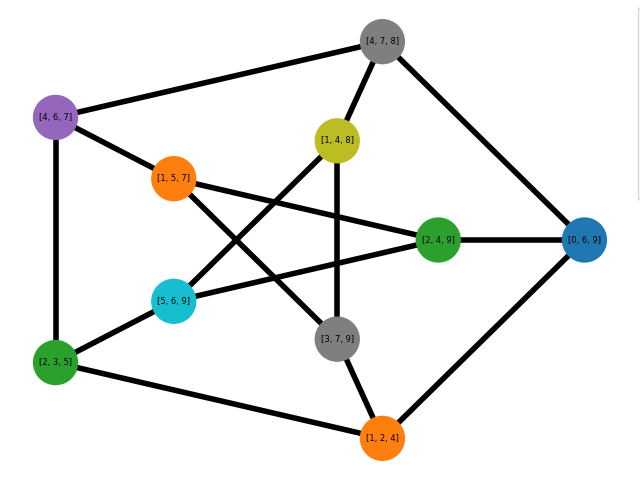
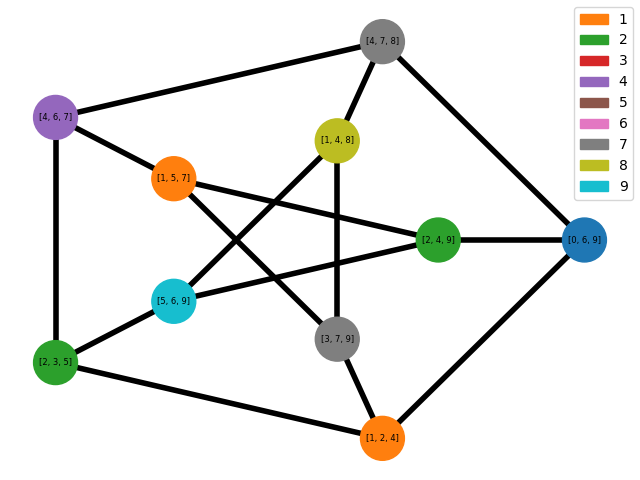
Try to find the missing legend.

Changed region(s): [[0.9062, 0.0, 1.0, 0.4062]]

diff --git a/src/petersen-node.py b/src/petersen-node.py
@@ -27,6 +27,6 @@ nx.draw(G,
 )
 
 patches = [mpatches.Patch(color = plt.cm.tab10(i), label = f'{i}') for i in range(1, 10)]
-plt.legend(handles = patches, bbox_to_anchor = (1.1, 1))
+plt.legend(handles = patches, bbox_to_anchor = (1, 1))
 
 plt.savefig("png/petersen-node.png", format = "PNG")
